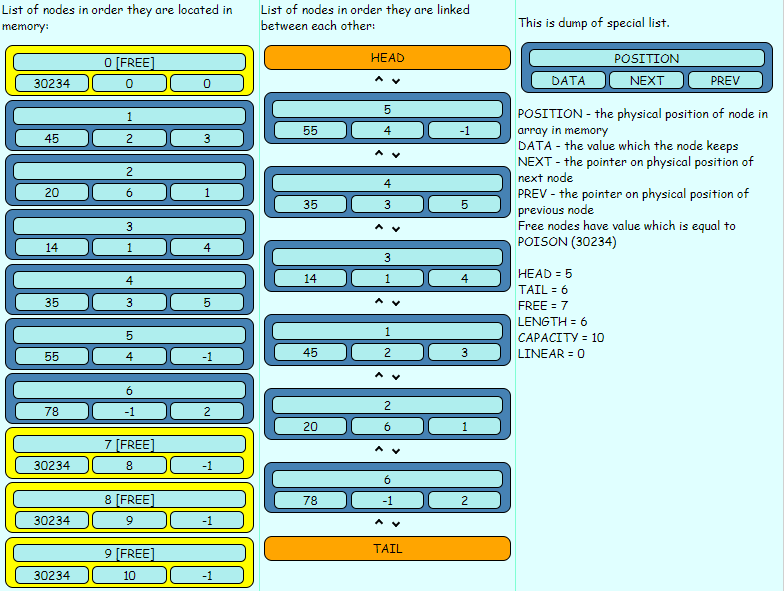
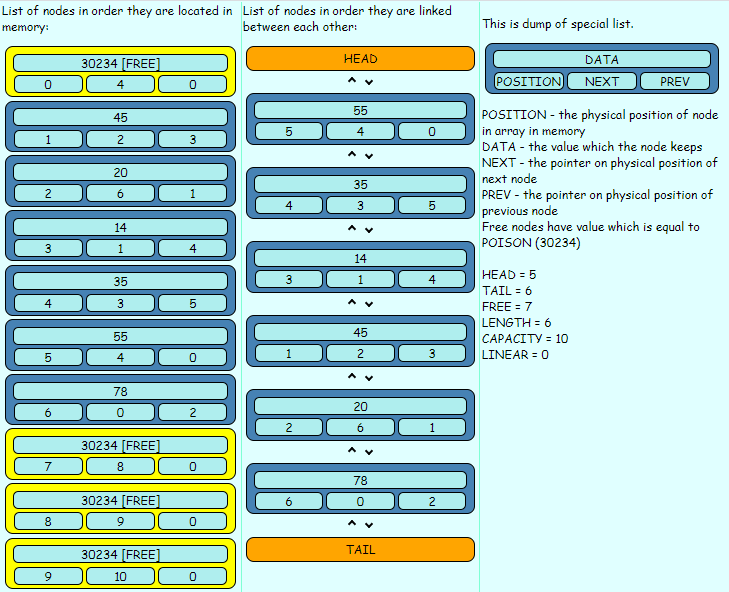
Version 1.6.1

Changed region(s): [[0.0, 0.0, 1.0, 1.0], [0.4829, 0.9137, 0.513, 0.9442]]

diff --git a/List/list.js b/List/list.js
@@ -1,2 +1,2 @@
-// An example for version 1.6.0
-document.body.innerHTML = '<table> <tr> <td> <p> List of nodes in order they are located in memory: </p> <div class="node" style="background:yellow"> <center class="adress">0 [FREE]</center> <div class="container"> <div class="info"> <div class="data field">30234</div> <div class="next field">4</div> <div class="prev field">0</div> </div> </div> </div><div class="node" id="1"> <center class="adress">1</center> <div class="container"> <div class="info"> <div class="data field">45</div> <div class="next field" onclick="Conduct(2)">2</div> <div class="prev field" onclick="Conduct(3)">3</div> </div> </div> </div><div class="node" id="2"> <center class="adress">2</center> <div class="container"> <div class="info"> <div class="data field">20</div> <div class="next field" onclick="Conduct(6)">6</div> <div class="prev field" onclick="Conduct(1)">1</div> </div> </div> </div><div class="node" id="3"> <center class="adress">3</center> <div class="container"> <div class="info"> <div class="data field">14</div> <div class="next field" onclick="Conduct(1)">1</div> <div class="prev field" onclick="Conduct(4)">4</div> </div> </div> </div><div class="node" id="4"> <center class="adress">4</center> <div class="container"> <div class="info"> <div class="data field">35</div> <div class="next field" onclick="Conduct(3)">3</div> <div class="prev field" onclick="Conduct(5)">5</div> </div> </div> </div><div class="node" id="5"> <center class="adress">5</center> <div class="container"> <div class="info"> <div class="data field">55</div> <div class="next field" onclick="Conduct(4)">4</div> <div class="prev field" onclick="Conduct(0)">0</div> </div> </div> </div><div class="node" id="6"> <center class="adress">6</center> <div class="container"> <div class="info"> <div class="data field">78</div> <div class="next field" onclick="Conduct(0)">0</div> <div class="prev field" onclick="Conduct(2)">2</div> </div> </div> </div><div class="node" style="background:yellow"> <center class="adress">7 [FREE]</center> <div class="container"> <div class="info"> <div class="data field">30234</div> <div class="next field">8</div> <div class="prev field">0</div> </div> </div> </div><div class="node" style="background:yellow"> <center class="adress">8 [FREE]</center> <div class="container"> <div class="info"> <div class="data field">30234</div> <div class="next field">9</div> <div class="prev field">0</div> </div> </div> </div><div class="node" style="background:yellow"> <center class="adress">9 [FREE]</center> <div class="container"> <div class="info"> <div class="data field">30234</div> <div class="next field">10</div> <div class="prev field">0</div> </div> </div> </div></td> <td style="border-left: 1px solid Aquamarine; border-right: 1px solid Aquamarine;"> <p> List of nodes in order they are linked between each other: </p> <div class="node" style="background:Orange">HEAD</div> <center> <i class="up"></i> <i class="down"></i> </center> <div class="node"> <center class="adress">5</center> <div class="container"> <div class="info"> <div class="data field">55</div> <div class="next field">4</div> <div class="prev field">0</div> </div> </div> </div> <center> <i class="up"></i> <i class="down"></i> </center><div class="node"> <center class="adress">4</center> <div class="container"> <div class="info"> <div class="data field">35</div> <div class="next field">3</div> <div class="prev field">5</div> </div> </div> </div> <center> <i class="up"></i> <i class="down"></i> </center><div class="node"> <center class="adress">3</center> <div class="container"> <div class="info"> <div class="data field">14</div> <div class="next field">1</div> <div class="prev field">4</div> </div> </div> </div> <center> <i class="up"></i> <i class="down"></i> </center><div class="node"> <center class="adress">1</center> <div class="container"> <div class="info"> <div class="data field">45</div> <div class="next field">2</div> <div class="prev field">3</div> </div> </div> </div> <center> <i class="up"></i> <i class="down"></i> </center><div class="node"> <center class="adress">2</center> <div class="container"> <div class="info"> <div class="data field">20</div> <div class="next field">6</div> <div class="prev field">1</div> </div> </div> </div> <center> <i class="up"></i> <i class="down"></i> </center><div class="node"> <center class="adress">6</center> <div class="container"> <div class="info"> <div class="data field">78</div> <div class="next field">0</div> <div class="prev field">2</div> </div> </div> </div> <center> <i class="up"></i> <i class="down"></i> </center><div class="node" style="background:Orange"> TAIL </div> </td> <td style="position:fixed"> <p> This is dump of special list. </p> <div class="node"> <center class="adress"> POSITION </center> <div class="container"> <div class="info"> <div class="data field"> DATA </div> <div class="next field"> NEXT </div> <div class="prev field"> PREV </div> </div> </div> </div> <p> POSITION - the physical position of node in array in memory <br>DATA - the value which the node keeps <br>NEXT - the pointer on physical position of next node <br>PREV - the pointer on physical position of previous node <br>Free nodes have value which is equal to POISON (30234) <br><br>HEAD = 5 <br>TAIL = 6 <br>FREE = 7 <br>LENGTH = 6 <br>CAPACITY = 10 <br>LINEAR = 0 </p>';
+//Example for Version 1.6.1
+document.body.innerHTML = '<table> <tr> <td> <p> List of nodes in order they are located in memory: </p> <div class="node" style="background:yellow"> <center class="adress">30234 [FREE]</center> <div class="container"> <div class="info"> <div class="data field">0</div> <div class="next field">4</div> <div class="prev field">0</div> </div> </div> </div><div class="node" id="1"> <center class="adress">45</center> <div class="container"> <div class="info"> <div class="data field">1</div> <div class="next field" onclick="Conduct(2)">2</div> <div class="prev field" onclick="Conduct(3)">3</div> </div> </div> </div><div class="node" id="2"> <center class="adress">20</center> <div class="container"> <div class="info"> <div class="data field">2</div> <div class="next field" onclick="Conduct(6)">6</div> <div class="prev field" onclick="Conduct(1)">1</div> </div> </div> </div><div class="node" id="3"> <center class="adress">14</center> <div class="container"> <div class="info"> <div class="data field">3</div> <div class="next field" onclick="Conduct(1)">1</div> <div class="prev field" onclick="Conduct(4)">4</div> </div> </div> </div><div class="node" id="4"> <center class="adress">35</center> <div class="container"> <div class="info"> <div class="data field">4</div> <div class="next field" onclick="Conduct(3)">3</div> <div class="prev field" onclick="Conduct(5)">5</div> </div> </div> </div><div class="node" id="5"> <center class="adress">55</center> <div class="container"> <div class="info"> <div class="data field">5</div> <div class="next field" onclick="Conduct(4)">4</div> <div class="prev field" onclick="Conduct(0)">0</div> </div> </div> </div><div class="node" id="6"> <center class="adress">78</center> <div class="container"> <div class="info"> <div class="data field">6</div> <div class="next field" onclick="Conduct(0)">0</div> <div class="prev field" onclick="Conduct(2)">2</div> </div> </div> </div><div class="node" style="background:yellow"> <center class="adress">30234 [FREE]</center> <div class="container"> <div class="info"> <div class="data field">7</div> <div class="next field">8</div> <div class="prev field">0</div> </div> </div> </div><div class="node" style="background:yellow"> <center class="adress">30234 [FREE]</center> <div class="container"> <div class="info"> <div class="data field">8</div> <div class="next field">9</div> <div class="prev field">0</div> </div> </div> </div><div class="node" style="background:yellow"> <center class="adress">30234 [FREE]</center> <div class="container"> <div class="info"> <div class="data field">9</div> <div class="next field">10</div> <div class="prev field">0</div> </div> </div> </div></td> <td style="border-left: 1px solid Aquamarine; border-right: 1px solid Aquamarine;"> <p> List of nodes in order they are linked between each other: </p> <div class="node" style="background:Orange">HEAD</div> <center> <i class="up"></i> <i class="down"></i> </center> <div class="node"> <center class="adress">55</center> <div class="container"> <div class="info"> <div class="data field">5</div> <div class="next field">4</div> <div class="prev field">0</div> </div> </div> </div> <center> <i class="up"></i> <i class="down"></i> </center><div class="node"> <center class="adress">35</center> <div class="container"> <div class="info"> <div class="data field">4</div> <div class="next field">3</div> <div class="prev field">5</div> </div> </div> </div> <center> <i class="up"></i> <i class="down"></i> </center><div class="node"> <center class="adress">14</center> <div class="container"> <div class="info"> <div class="data field">3</div> <div class="next field">1</div> <div class="prev field">4</div> </div> </div> </div> <center> <i class="up"></i> <i class="down"></i> </center><div class="node"> <center class="adress">45</center> <div class="container"> <div class="info"> <div class="data field">1</div> <div class="next field">2</div> <div class="prev field">3</div> </div> </div> </div> <center> <i class="up"></i> <i class="down"></i> </center><div class="node"> <center class="adress">20</center> <div class="container"> <div class="info"> <div class="data field">2</div> <div class="next field">6</div> <div class="prev field">1</div> </div> </div> </div> <center> <i class="up"></i> <i class="down"></i> </center><div class="node"> <center class="adress">78</center> <div class="container"> <div class="info"> <div class="data field">6</div> <div class="next field">0</div> <div class="prev field">2</div> </div> </div> </div> <center> <i class="up"></i> <i class="down"></i> </center><div class="node" style="background:Orange"> TAIL </div> </td> <td style="position:fixed"> <p> This is dump of special list. </p> <div class="node"> <center class="adress"> DATA </center> <div class="container"> <div class="info"> <div class="data field"> POSITION </div> <div class="next field"> NEXT </div> <div class="prev field"> PREV </div> </div> </div> </div> <p> POSITION - the physical position of node in array in memory <br>DATA - the value which the node keeps <br>NEXT - the pointer on physical position of next node <br>PREV - the pointer on physical position of previous node <br>Free nodes have value which is equal to POISON (30234) <br><br>HEAD = 5 <br>TAIL = 6 <br>FREE = 7 <br>LENGTH = 6 <br>CAPACITY = 10 <br>LINEAR = 0 </p>';

diff --git a/List/HTMLdump.html b/List/HTMLdump.html
@@ -1,4 +1,4 @@
-<!-- Version 1.6.0 -->
+<!-- Version 1.6.1 -->
 
 <html>
 	<head>

diff --git a/List/list.c b/List/list.c
@@ -1,4 +1,4 @@
-//Version 1.6.0
+//Version 1.6.1
 
 #include "list.h"
 
@@ -569,8 +569,8 @@ bool HTMLList (List* thisList) {
                                     </div>                                                                \
                                 </div>"),
             point,
-            point,
             DATA(point),
+            point,
             NEXT(point),
             NEXT(point),
             PREV(point),
@@ -589,8 +589,8 @@ bool HTMLList (List* thisList) {
                                         </div>                                                        \
                                     </div>                                                            \
                                 </div>"),
-            point,
             DATA(point),
+            point,
             NEXT(point),
             PREV(point));
 
@@ -631,8 +631,8 @@ bool HTMLList (List* thisList) {
                                                                                   \
                             <i class=\"down\"></i>                                \
                         </center>"),
-        link,
         DATA(link),
+        link,
         NEXT(link),
         PREV(link));
 
@@ -651,12 +651,12 @@ bool HTMLList (List* thisList) {
                     </p>                                                                              \
                     <div class=\"node\">                                                              \
                         <center class=\"adress\">                                                     \
-                            POSITION                                                                  \
+                            DATA                                                                      \
                         </center>                                                                     \
                         <div class=\"container\">                                                     \
                             <div class=\"info\">                                                      \
                                 <div class=\"data field\">                                            \
-                                    DATA                                                              \
+                                    POSITION                                                          \
                                 </div>                                                                \
                                 <div class=\"next field\">                                            \
                                     NEXT                                                              \

diff --git a/List/list.h b/List/list.h
@@ -1,4 +1,4 @@
-//Version 1.6.0
+//Version 1.6.1
 
 #include <assert.h>
 #include <stdbool.h>

diff --git a/List/main.c b/List/main.c
@@ -1,4 +1,4 @@
-//Version 1.6.0
+//Version 1.6.1
 
 #include <stdio.h>
 #include <stdlib.h>
